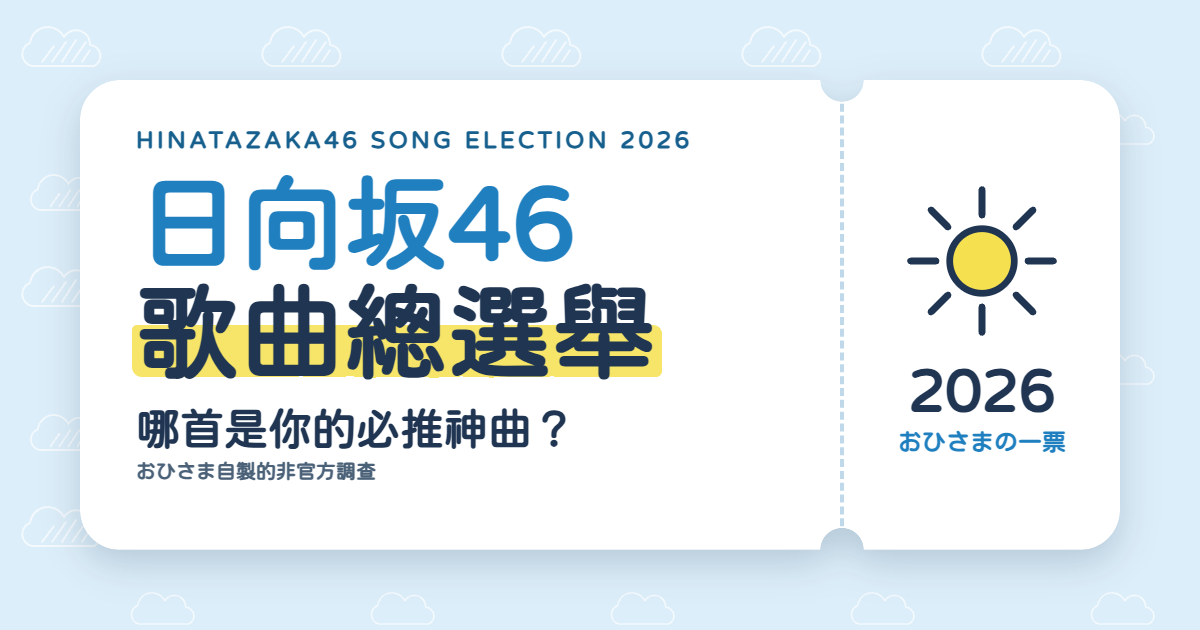
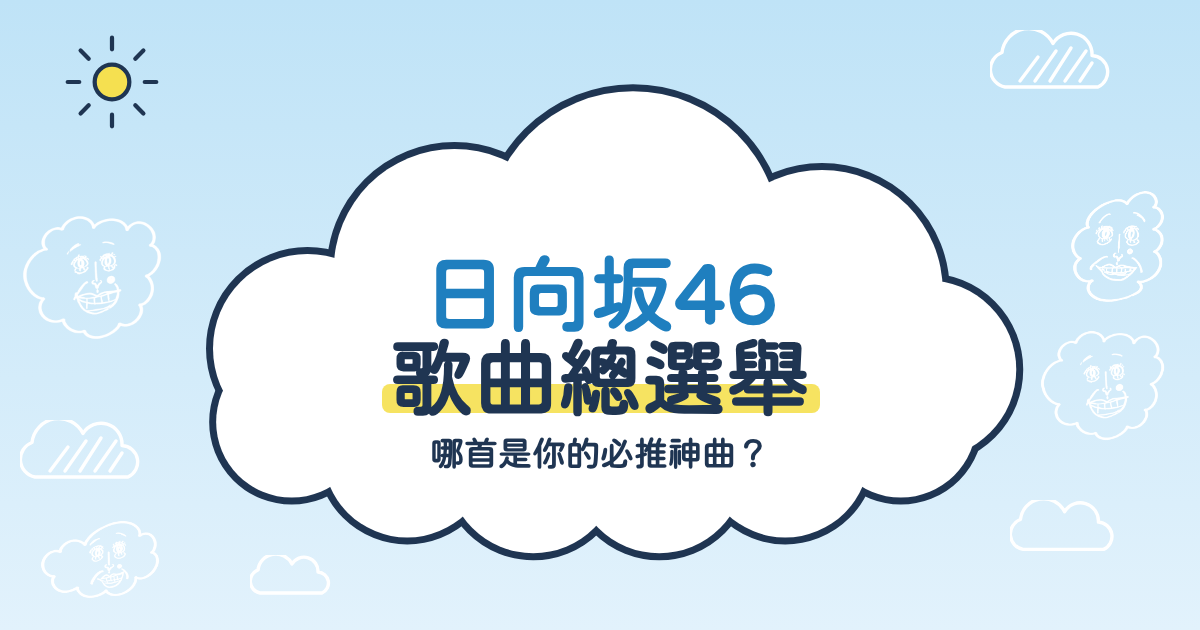
Update vote page: reasons, sub-categories, cover back sides, new UI polish
Claude-Session: https://claude.ai/code/session_01NvHAcwsLaBRSPrVT51fS7F

diff --git a/js/vote-lib.js b/js/vote-lib.js
@@ -86,8 +86,9 @@ export function normalizeMV(o, items, base) {
     era: song?.era || '', tags: [], note: o.note || '', hidden: !!song?.hidden };
 }
 
-export const SLIDES = [['jacketA', 'Type A', 'A'], ['jacketB', 'Type B', 'B'], ['jacketC', 'Type C', 'C'], ['jacketD', 'Type D', 'D'], ['jacketN', '通常盤', '通常'], ['jacketX', '其他', '其他'],
-  ['backA', 'Type A 封底', 'A底'], ['backB', 'Type B 封底', 'B底'], ['backC', 'Type C 封底', 'C底'], ['backD', 'Type D 封底', 'D底'], ['backN', '通常盤 封底', '通常底']];
+export const SLIDES = [['jacketA', 'A(Front)', 'A(Front)'], ['backA', 'A(Back)', 'A(Back)'], ['jacketB', 'B(Front)', 'B(Front)'], ['backB', 'B(Back)', 'B(Back)'],
+  ['jacketC', 'C(Front)', 'C(Front)'], ['backC', 'C(Back)', 'C(Back)'], ['jacketD', 'D(Front)', 'D(Front)'], ['backD', 'D(Back)', 'D(Back)'],
+  ['jacketN', '通常盤(Front)', '通常(Front)'], ['backN', '通常盤(Back)', '通常(Back)'], ['jacketX', '其他', '其他']];
 
 export function normalizeRelease(o, items, base) {
   if (!o.id || !o.title) return null;

diff --git a/vote.html b/vote.html
@@ -147,7 +147,7 @@ input,select{font:inherit}
 .car{display:flex;overflow-x:auto;scroll-snap-type:x mandatory;scrollbar-width:none;aspect-ratio:1/1;background:linear-gradient(135deg,#BFE3F5,#FAF5C8)}
 .car::-webkit-scrollbar{display:none}
 .sl{flex:0 0 100%;scroll-snap-align:center;position:relative}
-.sl img{width:100%;height:100%;object-fit:cover;display:block}
+.sl{background:#EEF5FA}.sl img{width:100%;height:100%;object-fit:contain;display:block}
 .sl.ph{display:flex;align-items:center;justify-content:center;font-weight:800;color:var(--mut)}
 .lb2{position:absolute;left:10px;bottom:10px;background:#fff;border-radius:999px;padding:2px 10px;font-size:12px;font-weight:900}
 .ctr{position:absolute;right:10px;bottom:10px;background:rgba(31,53,82,.75);color:#fff;border-radius:999px;padding:2px 10px;font-size:12px;font-weight:800;pointer-events:none}
